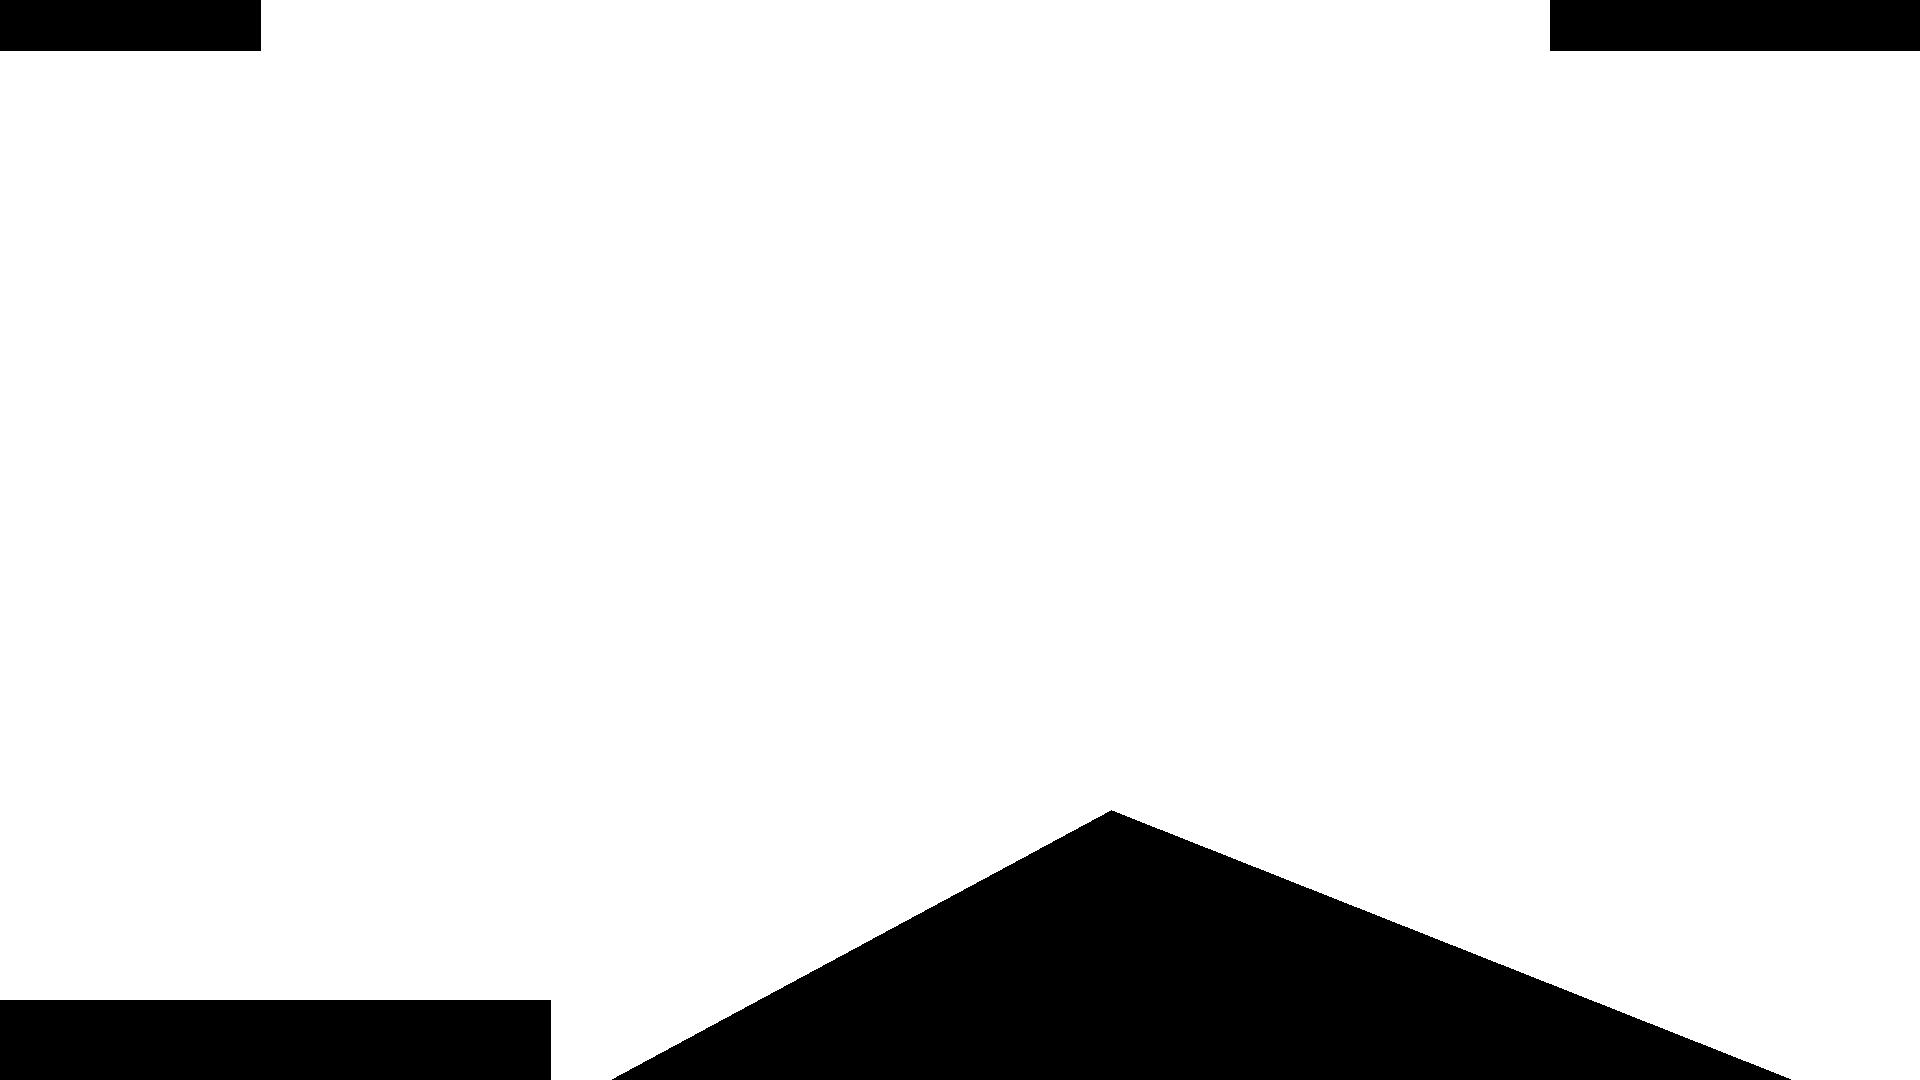
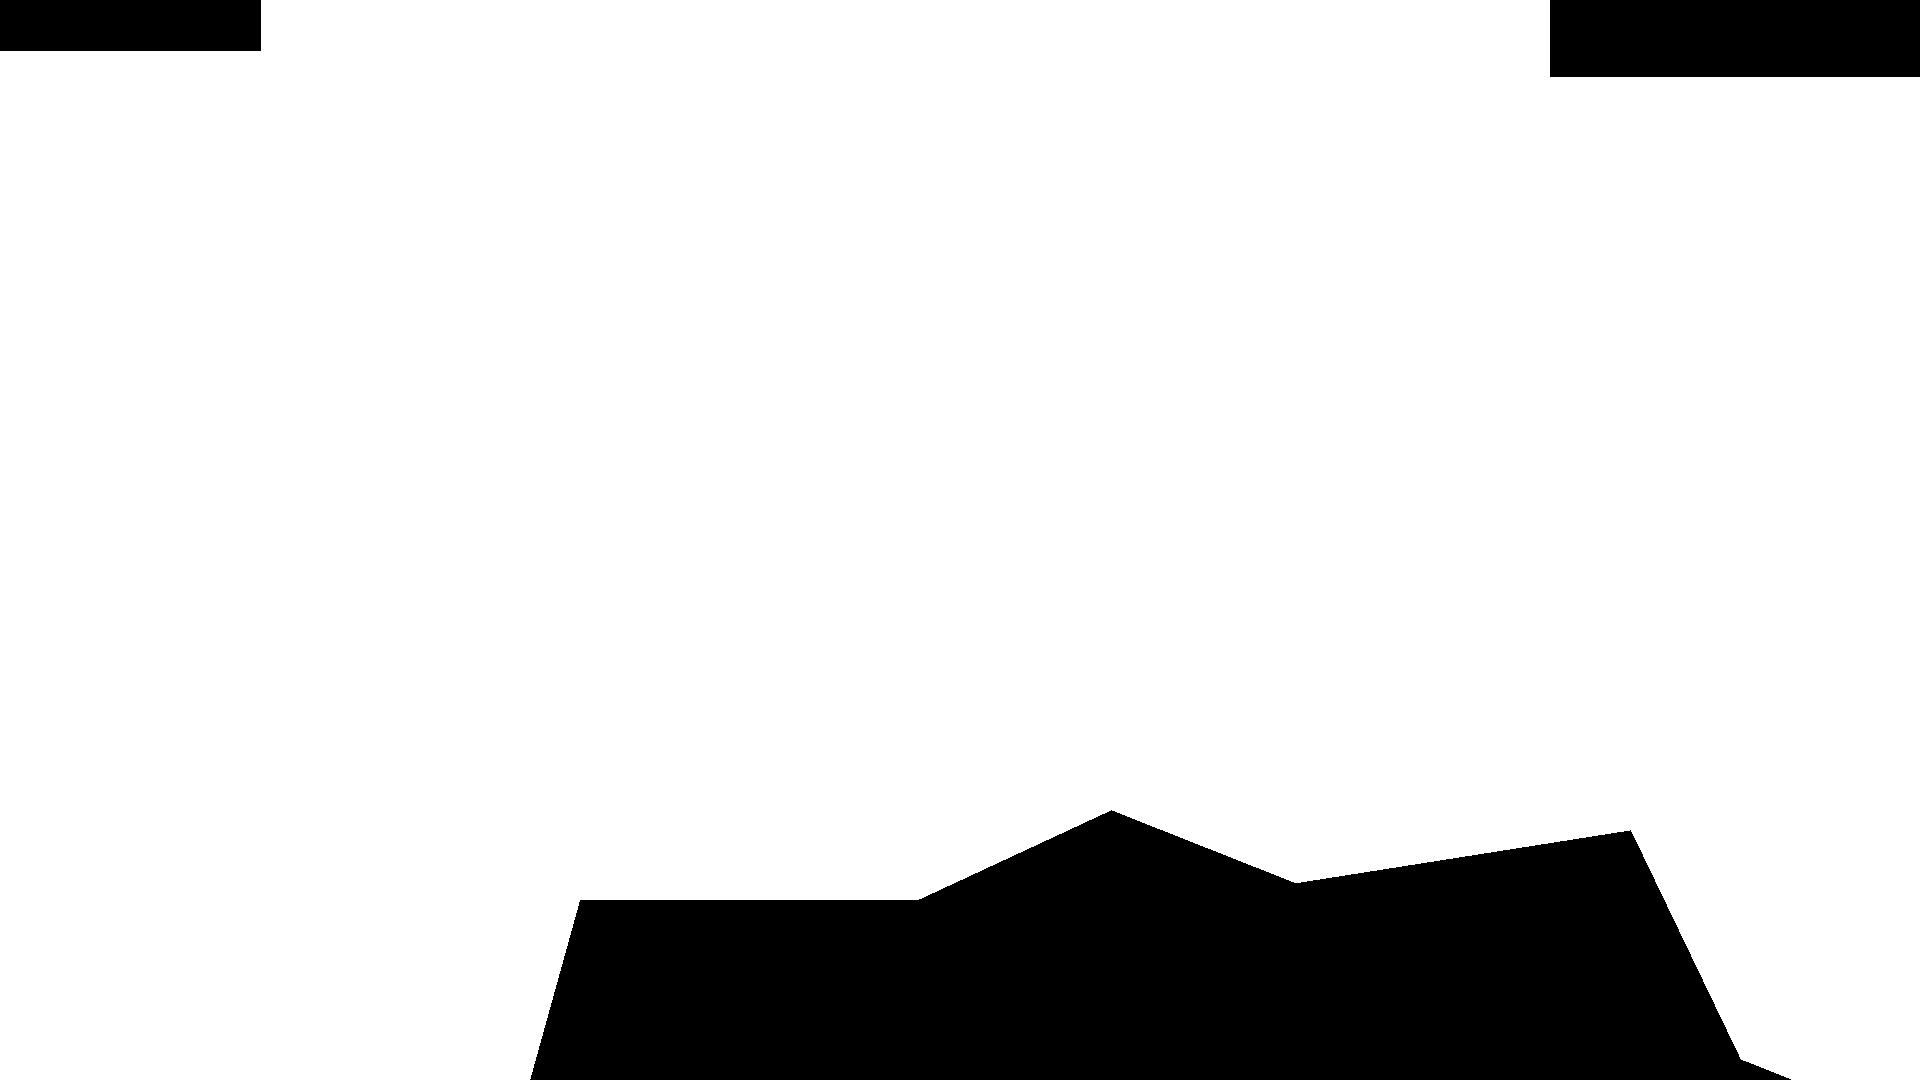
update

diff --git a/create_mask.py b/create_mask.py
@@ -46,16 +46,20 @@ if __name__ == "__main__":
     # 定义绘制字典
     black_shapes = [
         {'type': 'rectangle', 'coordinates': [0, 0, 260, 50]},
-        {'type': 'rectangle', 'coordinates': [1550, 0, 1920, 50]},
-        {'type': 'rectangle', 'coordinates': [0, 1000, 550, 1080]},
+        {'type': 'rectangle', 'coordinates': [1550, 0, 1920, 76]},
+        # {'type': 'rectangle', 'coordinates': [0, 1000, 550, 1080]},
         # {'type': 'rectangle', 'coordinates': [550, 800, 1720, 1080]},
-        {'type': 'triangle', 'coordinates': [(1111, 810), (610, 1080), (1793, 1080)]},
+        {'type': 'triangle', 'coordinates': [(1111, 810), (530, 1080), (1793, 1080)]},
+        {'type': 'triangle', 'coordinates': [(580, 900), (530, 1080), (1100, 900)]},
+        {'type': 'triangle', 'coordinates': [(1250, 890), (1630, 830), (1750, 1080)]},
+
+
         # Add more shapes...
     ]
     # 绘制
     draw_black_shapes(mask, black_shapes)
 
-    img = Image.open('q.jpg')
+    img = Image.open('ship1111.jpg')
 
     merge_images(mask, img, 'merged.png')
 

diff --git a/read_camera.py b/read_camera.py
@@ -7,14 +7,14 @@ flag_a = 0
 flag_b = 0
 def this_receive():
     global flag_a
-    # URL='rtsp://192.168.8.88:554/av0_0'
-    URL='rtsp://admin:abcd1234@192.168.8.108:8555/cam/realmonitor?channel=1&subtype=1&unicast=true&proto=Onvif'
+    URL='rtsp://192.168.8.88:554/av0_0'
+    # URL='rtsp://admin:abcd1234@192.168.8.108:8555/cam/realmonitor?channel=1&subtype=1&unicast=true&proto=Onvif'
     cap = cv.VideoCapture(URL)
     
     while True:
         ret, next_frame = cap.read()
         if ret:
-            # cv.imshow("xsc", next_frame)
+            cv.imshow("xsc", next_frame)
             if flag_a:
                 size = next_frame.shape
                 w = size[1] #宽度
